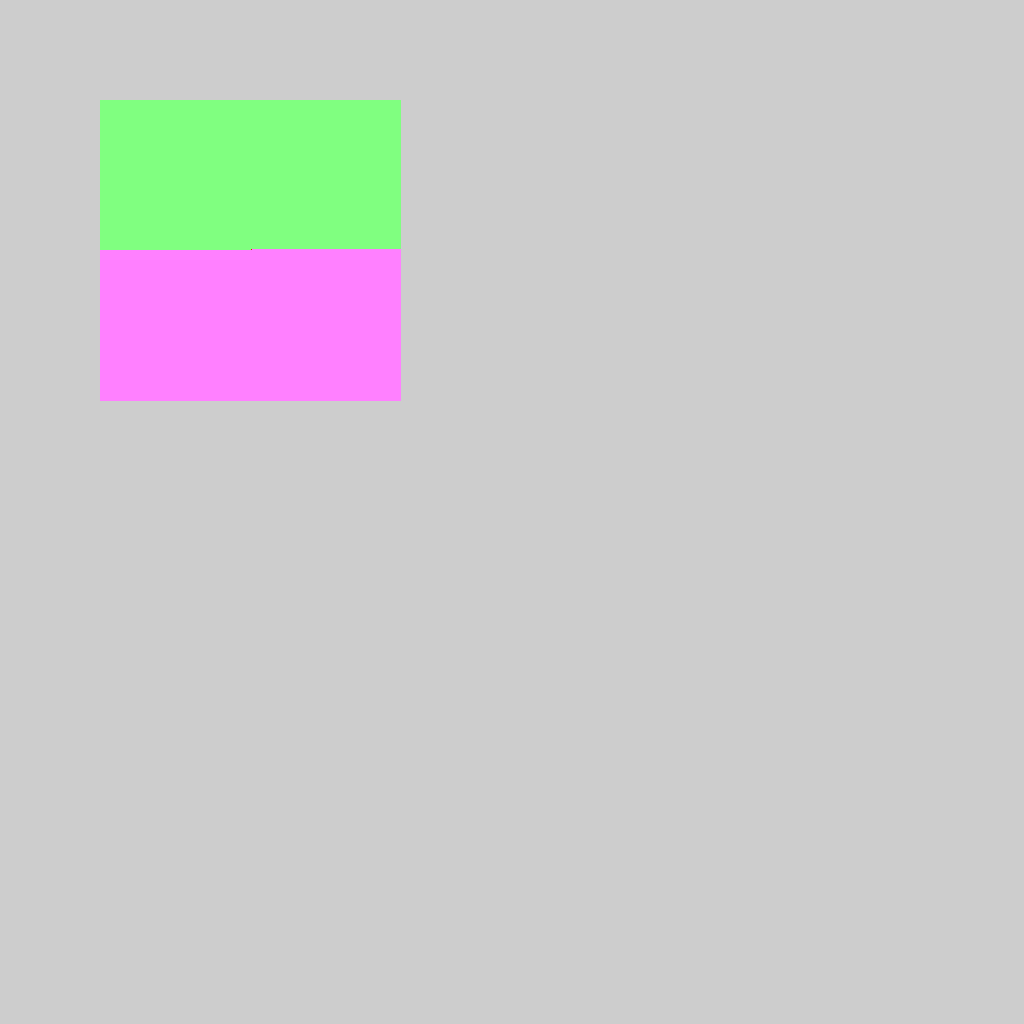
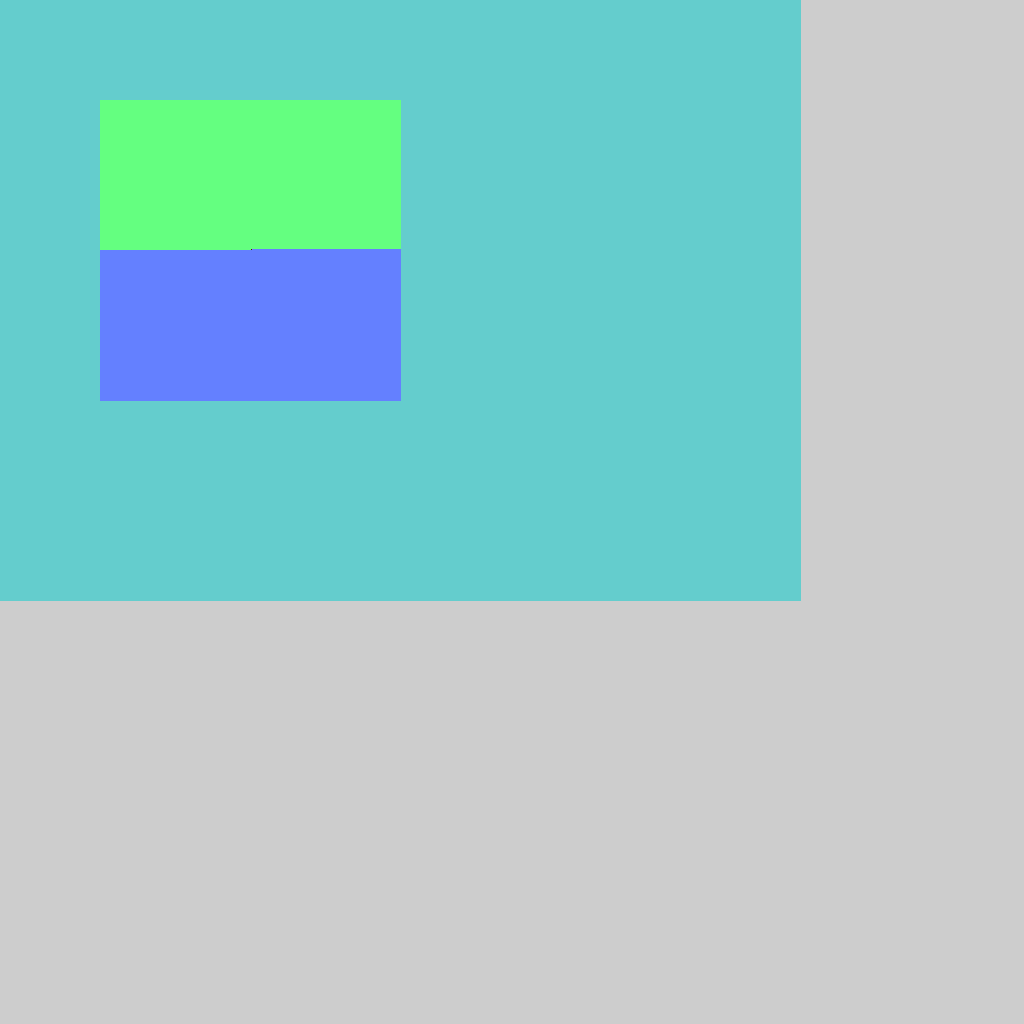
Additional work on redTintImage

diff --git a/src/Homework01App.cpp b/src/Homework01App.cpp
@@ -101,9 +101,9 @@ void Homework01App::redTintImage(uint8_t* pixels)
 {
 	for (int y = 0; y <= kAppHeight; y++) {
 		for (int x = 0; x <= kAppWidth; x++) {	
-			pixels[3*(x + y*kTextureSize)] = pixels[3*(x + y*kTextureSize)] + 100;
-			pixels[3*(x + y*kTextureSize)+1] = pixels[3*(x + y*kTextureSize)+1];
-			pixels[3*(x + y*kTextureSize)+2] = pixels[3*(x + y*kTextureSize)+2];		
+			pixels[3*(x + y*kTextureSize)] = 100;
+			//pixels[3*(x + y*kTextureSize)+1] = pixels[3*(x + y*kTextureSize)+1];
+			//pixels[3*(x + y*kTextureSize)+2] = pixels[3*(x + y*kTextureSize)+2];		
 		}
 	}
 }
@@ -119,6 +119,9 @@ void Homework01App::setup()
 
 void Homework01App::mouseDown( MouseEvent event )
 {
+	int xCoor = event.getX();
+	int yCoor = event.getY();
+	
 }
 
 void Homework01App::update()
@@ -130,7 +133,7 @@ void Homework01App::update()
 	Color8u rectFill2 = Color8u(255,128,255);
 	basicRectangle(dataArray, 100, 100, 400, 400, rectFill, rectFill2); 
 
-	//redTintImage(dataArray);
+	redTintImage(dataArray);
 
 	//Only save the first frame of drawing as output, code snippet via Dr. Brinkman
 	if(frame_number_ == 0){
